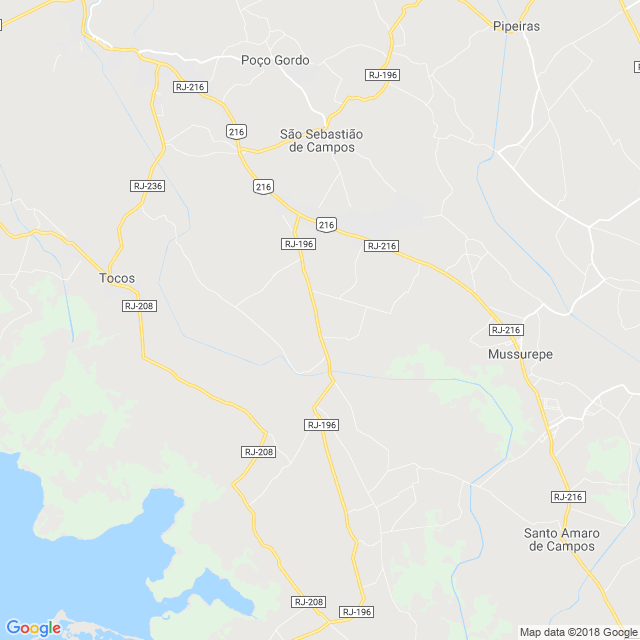
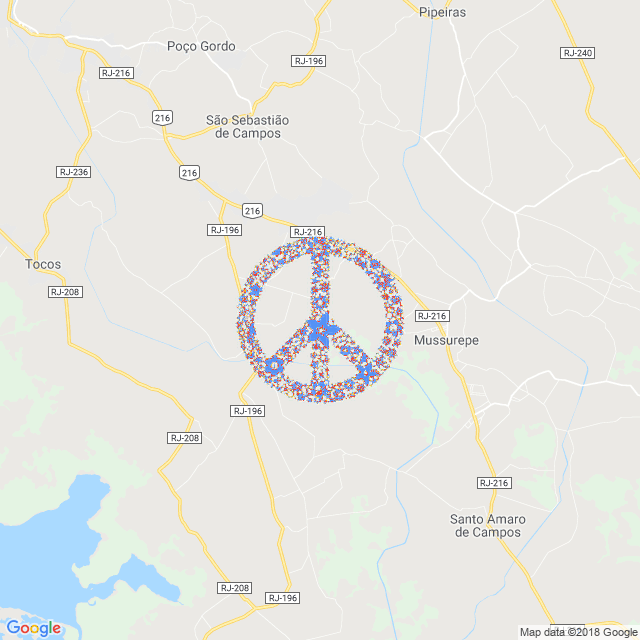
.

diff --git a/hippieoracle/index.html b/hippieoracle/index.html
@@ -1,5 +1,5 @@
 {% load static from staticfiles %}
-<center><h1>Oráculo Hippie</h1>
+<center><img src="{% static 'bike.jpg' %}">
     <br>
 
 <img src="{% static imagePath %}">

diff --git a/hippieoracle/hippie/views.py b/hippieoracle/hippie/views.py
@@ -3,8 +3,11 @@ import os
 from django.shortcuts import render
 from django.template import loader
 from django.http import HttpResponse
+
 from . import hippiecore
+from . import processMap
 # Create your views here.
+
 
 from django.conf import settings
 
@@ -16,6 +19,8 @@ def index(request):
     dirPath = os.path.join(settings.BASE_DIR, 'hippieoracle/hippie/maps/MAP.png')
     A = hippiecore.downloadMapImage(IMAGE, dirPath)
 
+    crosshairPath = os.path.join(settings.BASE_DIR, 'hippieoracle/hippie/sizedtarget.png')
+    processMap.putCrosshair(dirPath, crosshairPath)
     template = loader.get_template('index.html')
     context = {'imagePath': 'MAP.png'}
 

diff --git a/hippieoracle/urls.py b/hippieoracle/urls.py
@@ -15,9 +15,13 @@ Including another URLconf
 """
 from django.conf.urls import url
 from django.contrib import admin
-import django
+from django.conf import settings
+from django.conf.urls.static import static
 import hippieoracle.hippie.views
+
+StaticUrls = static(settings.STATIC_URL, document_root=settings.STATIC_ROOT)
+print(StaticUrls)
 urlpatterns = [
     url(r'^admin', admin.site.urls),
     url('', hippieoracle.hippie.views.index),
-]
+] + StaticUrls

diff --git a/hippieoracle/settings.py b/hippieoracle/settings.py
@@ -122,6 +122,4 @@ STATIC_URL = '/static/'
 STATICFILES_DIRS = [
     os.path.join(BASE_DIR, 'hippieoracle/hippie/maps')
 ]
-STATICFILE_ROOT = [
-    '/var/www/static'
-    ]
+STATIC_ROOT = os.path.join(BASE_DIR, 'static')
